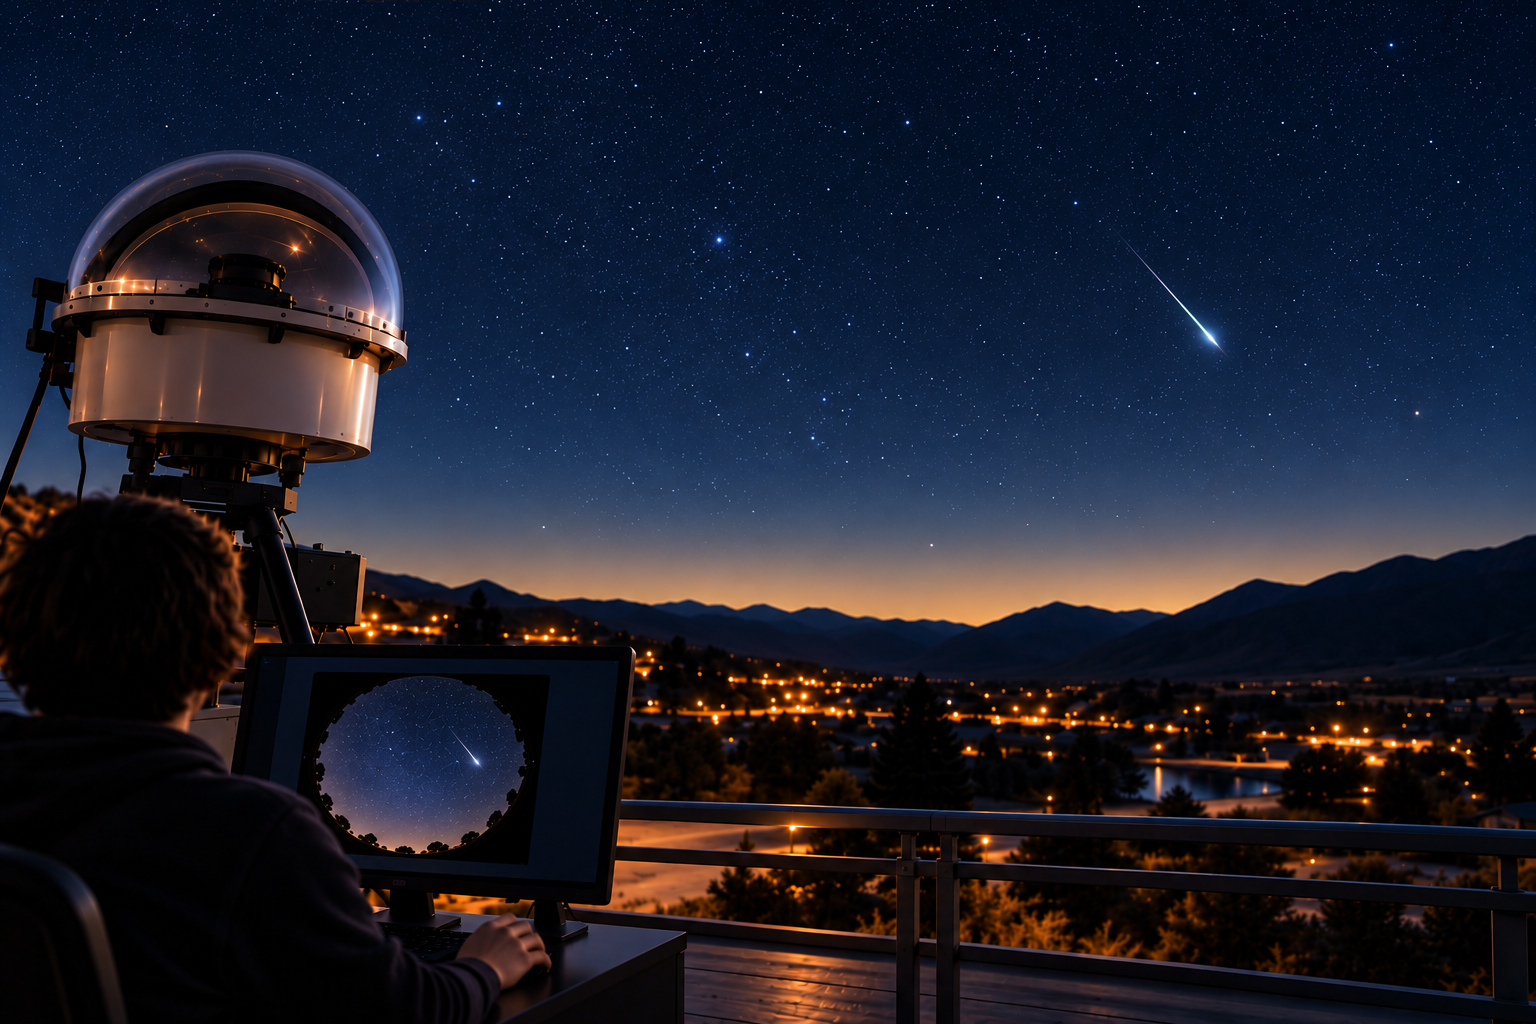
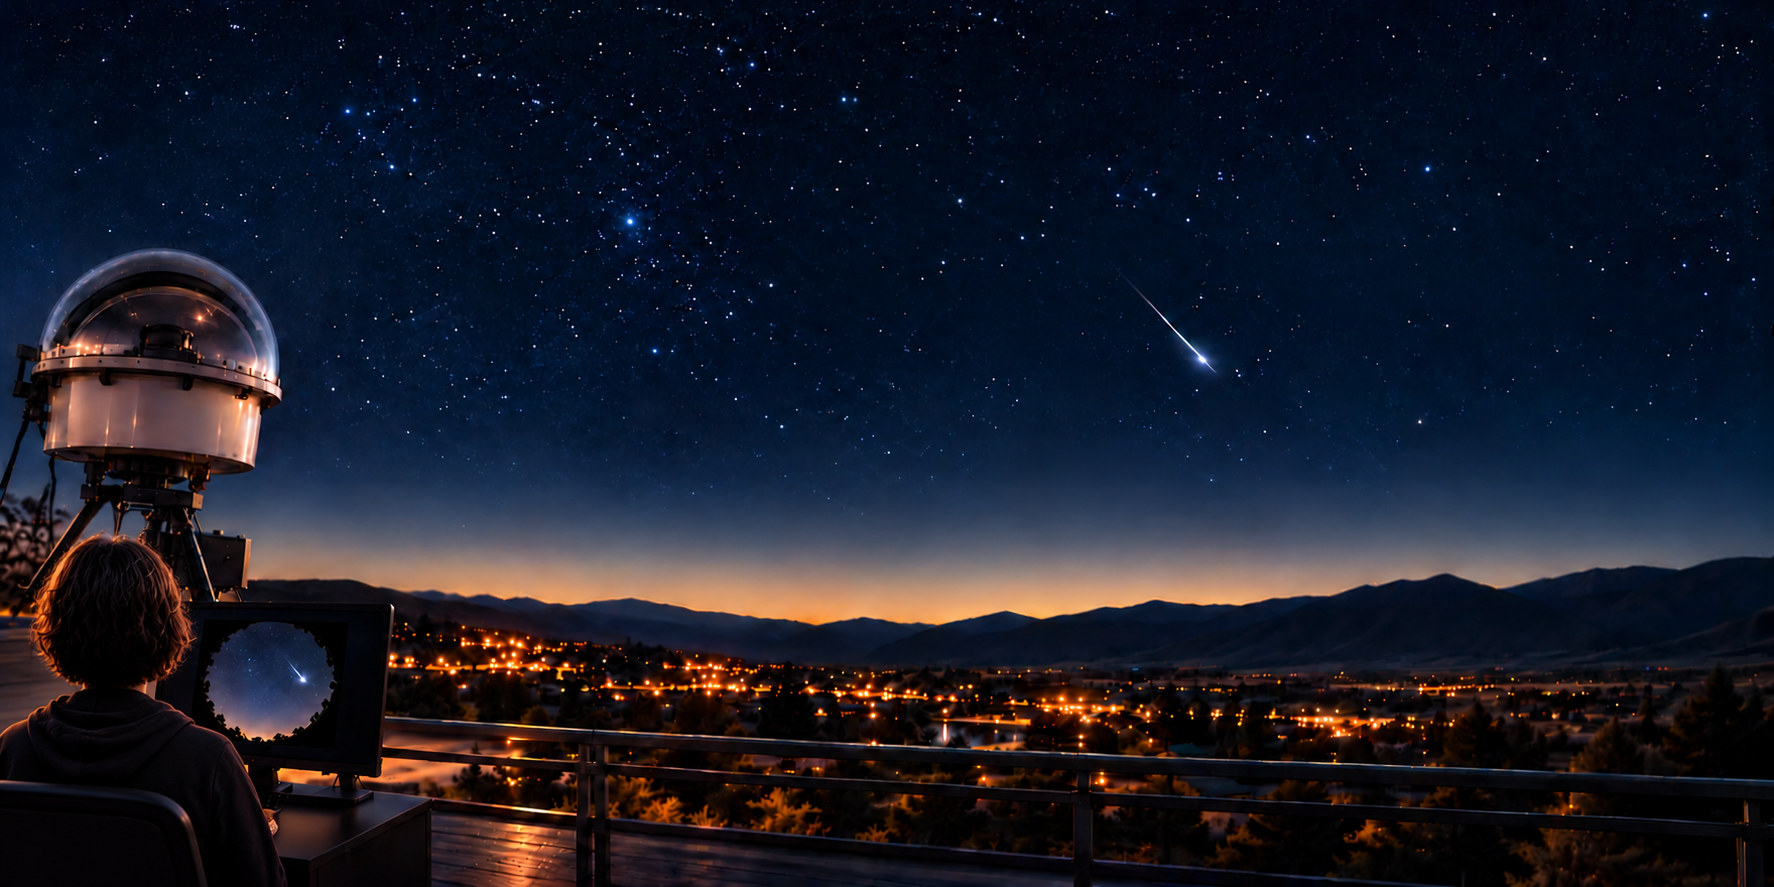
One clip at a time on server, hide video download, layout tweaks

diff --git a/frontend/src/App.jsx b/frontend/src/App.jsx
@@ -128,10 +128,10 @@ export default function App() {
 
       <section className="intro">
         <div className="intro__box">
-        <p>
-          Sky cameras capture anything that moves. Night Sky Finder measures each clip and uses AI to identify
-          meteors, planes, satellites and clouds, so owners don't have to review hundreds by hand.
-        </p>
+          <p>
+            Sky cameras capture anything that moves. Night Sky Finder measures each clip and uses AI to identify
+            meteors, planes, satellites and clouds, so owners don't have to review hundreds by hand.
+          </p>
         </div>
         <Credit />
       </section>
@@ -179,9 +179,15 @@ export default function App() {
           <EventPanel item={current} index={index} aiMode={health?.ai_mode} onRetry={() => current && run(current)} />
         </div>
 
-        <footer className="foot">
+        {/* <footer className="foot">
           Videos: NightSkyUCP (CC BY-NC-SA 4.0), IAC all-sky meteors 2016 (CC BY 4.0). Background picture made with ChatGPT.
           Built for the Meta Global AI Developer Hackathon.
+        </footer> */}
+        <footer className="foot">
+          Videos: <a href="https://allsky7.net" target="_blank" rel="noreferrer">AllSky7 Fireball Network</a> (© the camera owners, non-commercial use) ·
+          NightSkyUCP (CC BY-NC-SA 4.0) · IAC / STARS4ALL all-sky meteors 2016 (CC BY 4.0) ·
+          <a href="https://goskysentinel.com" target="_blank" rel="noreferrer">SkySentinel</a> (Las Cruces).
+          Background picture made with ChatGPT. Built for the Meta Global AI Developer Hackathon.
         </footer>
       </div>
     </div>

diff --git a/frontend/src/index.css b/frontend/src/index.css
@@ -35,7 +35,6 @@ button:focus-visible { outline: 2px solid var(--blue); outline-offset: 2px; }
 /* the photo fills the whole screen; the app floats on the right */
 .scene { position: fixed; inset: 0; z-index: -1; 
 background: url(/sky-bg.png) left bottom / contain no-repeat;
-background-size: 60%;
 }
 .scene::after {
   content: "";
@@ -47,7 +46,7 @@ background-size: 60%;
   mask-image: linear-gradient(90deg, transparent 35%, #000 55%);
   -webkit-mask-image: linear-gradient(90deg, transparent 35%, #000 55%);
 }
-.page { height: 100vh; display: grid; grid-template-columns: minmax(0, 33fr) minmax(0, 67fr); grid-template-rows: auto minmax(0, 1fr); }
+.page { height: 100vh; display: grid; grid-template-columns: minmax(0, 28fr) minmax(0, 72fr); grid-template-rows: auto minmax(0, 1fr); }
 .intro { grid-column: 1; grid-row: 2; padding: clamp(14px, 2.4vh, 28px) clamp(16px, 2.2vw, 36px) clamp(10px, 1.6vh, 18px);
   display: flex; flex-direction: column; justify-content: space-between; min-height: 0; }
 /* small "made by" line at the bottom of the left side */
@@ -135,7 +134,7 @@ background-size: 60%;
 .uptile:hover b { color: var(--text); }
 .uptile span { font-size: 10.5px; color: var(--muted); }
 .carousel { position: relative; min-width: 0; }
-.vlist { display: grid; grid-auto-flow: column; grid-auto-columns: calc((100% - 30px) / 4); gap: 10px; overflow-x: auto;
+.vlist { display: grid; grid-auto-flow: column; grid-auto-columns: calc((100% - 30px) / 7); gap: 10px; overflow-x: auto;
   scroll-snap-type: x mandatory; scrollbar-width: none; padding: 2px; }
 .vlist::-webkit-scrollbar { display: none; }
 .vcard { scroll-snap-align: start; }

diff --git a/frontend/src/components/Player.jsx b/frontend/src/components/Player.jsx
@@ -13,7 +13,9 @@ export default function Player({ item }) {
       </h2>
       <div className="player__screen">
         {isVideo(item.name) ? (
-          <video key={src} src={src} autoPlay loop muted playsInline controls />
+          <video key={src} src={src} autoPlay loop muted playsInline controls
+            controlsList="nodownload noplaybackrate" disablePictureInPicture
+            onContextMenu={(e) => e.preventDefault()} />
         ) : (
           <img key={src} src={src} alt="Sky camera recording" />
         )}

diff --git a/backend/skyfinder/api.py b/backend/skyfinder/api.py
@@ -1,6 +1,7 @@
 import base64
 import os
 import tempfile
+import threading
 from pathlib import Path
 
 import cv2
@@ -8,6 +9,7 @@ from dotenv import load_dotenv
 from fastapi import FastAPI, HTTPException, UploadFile
 from fastapi.responses import FileResponse
 from fastapi.middleware.cors import CORSMiddleware
+from starlette.concurrency import run_in_threadpool
 
 from skyfinder.agent import investigate
 from skyfinder.classify import classify
@@ -38,6 +40,10 @@ def to_b64(image):
 
 
 _measured = {}
+
+# One clip at a time: the small server has little memory and CPU, and two videos at once
+# can crash it. Other clicks simply wait their turn.
+HEAVY = threading.Lock()
 
 
 def measured_payload(result, name):
@@ -101,33 +107,37 @@ def sample_path(name):
 
 @app.post("/api/samples/analyze")
 def analyze_sample(name: str):
-    return analyze(sample_path(name), name)
+    with HEAVY:
+        return analyze(sample_path(name), name)
 
 
 @app.post("/api/samples/measure")
 def measure_sample(name: str):
-    result = measure(sample_path(name))
-    _measured[name] = result
-    return measured_payload(result, name)
+    with HEAVY:
+        result = measure(sample_path(name))
+        _measured[name] = result
+        return measured_payload(result, name)
 
 
 @app.post("/api/samples/classify")
 def classify_sample(name: str):
-    result = _measured.get(name)
-    if result is None:
-        result = measure(sample_path(name))
-        _measured[name] = result
-    return {"file": name, "verdict": classify(result).model_dump()}
+    with HEAVY:
+        result = _measured.get(name)
+        if result is None:
+            result = measure(sample_path(name))
+            _measured[name] = result
+        return {"file": name, "verdict": classify(result).model_dump()}
 
 
 @app.post("/api/samples/investigate")
 def investigate_sample(name: str):
     path = sample_path(name)
-    result = _measured.get(name)
-    if result is None:
-        result = measure(path)
-        _measured[name] = result
-    answer = investigate(path, result)  # always a fresh AI check; the browser keeps answers until refresh
+    with HEAVY:  # the AI's tools read the video again, so keep the lock until it is done
+        result = _measured.get(name)
+        if result is None:
+            result = measure(path)
+            _measured[name] = result
+        answer = investigate(path, result)  # always a fresh AI check; the browser keeps answers until refresh
     return {
         "file": name,
         "verdict": answer["verdict"].model_dump(),
@@ -152,4 +162,10 @@ async def analyze_upload(file: UploadFile):
     with tempfile.TemporaryDirectory() as tmp:
         path = Path(tmp) / f"upload{ext}"
         path.write_bytes(data)
-        return analyze(path, file.filename)
+        # run in a worker thread, so the server can still answer other requests while waiting
+        return await run_in_threadpool(locked_analyze, path, file.filename)
+
+
+def locked_analyze(path, name):
+    with HEAVY:
+        return analyze(path, name)
